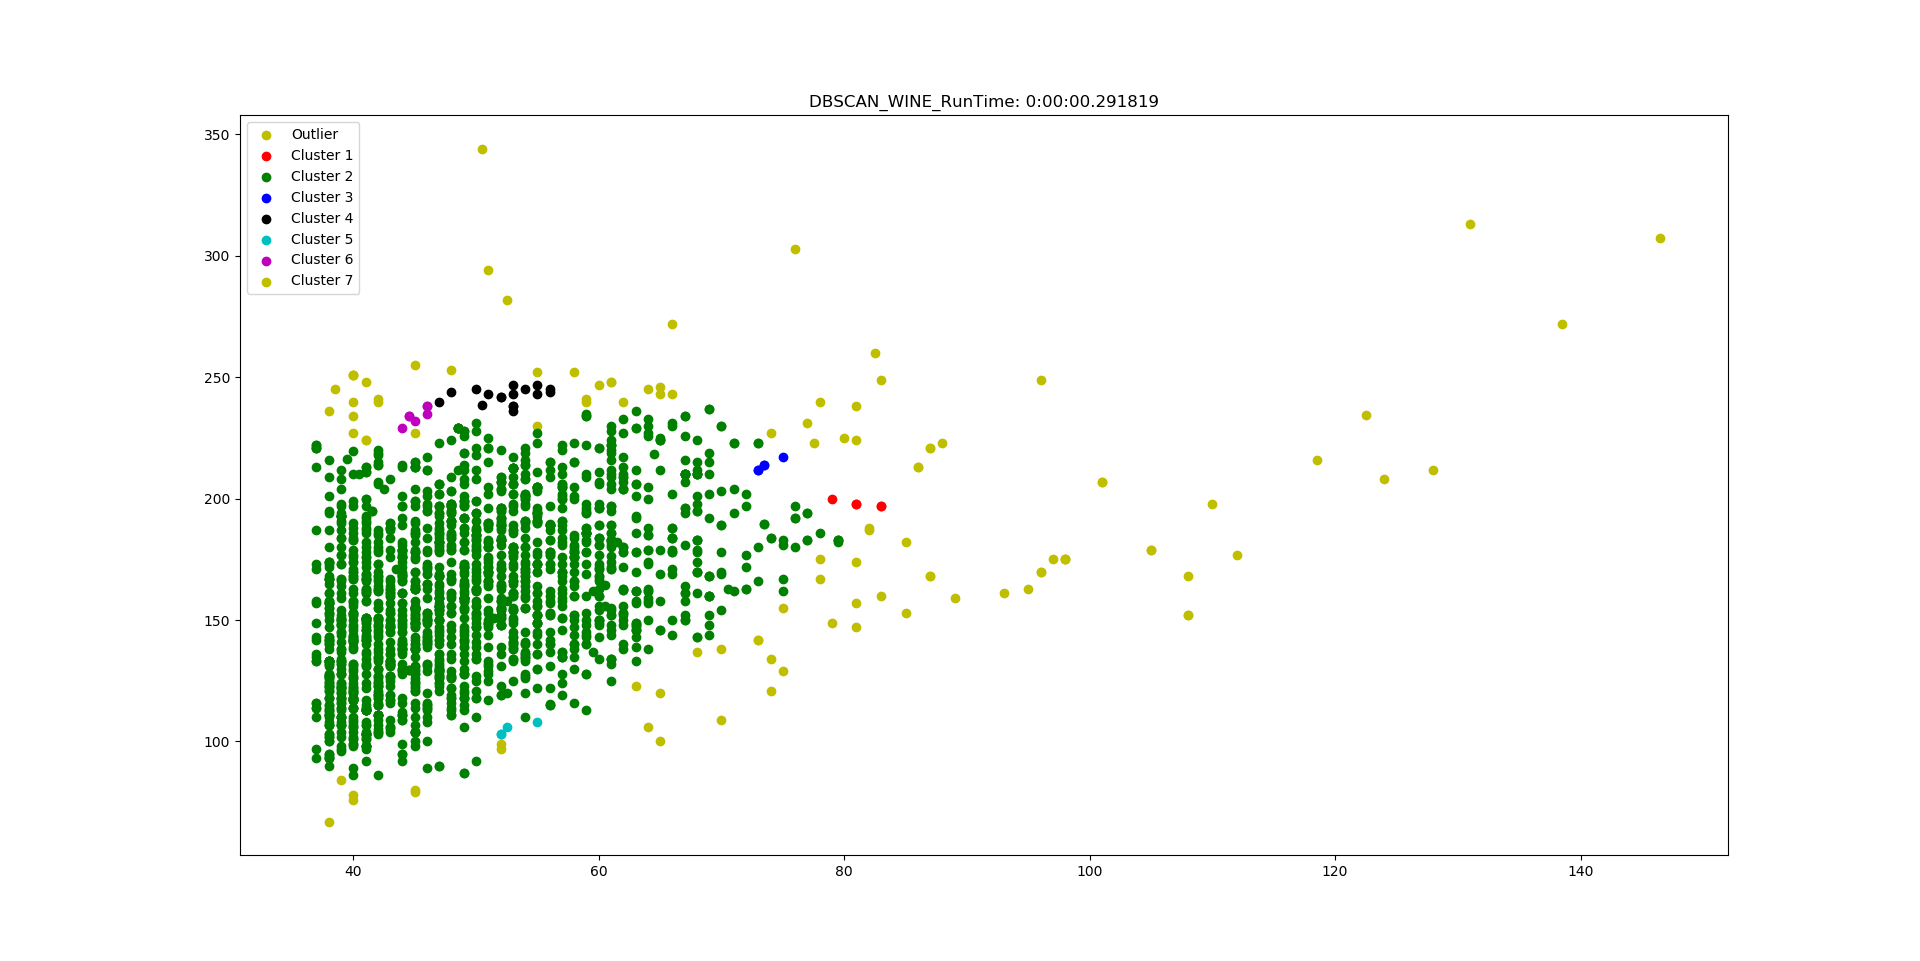
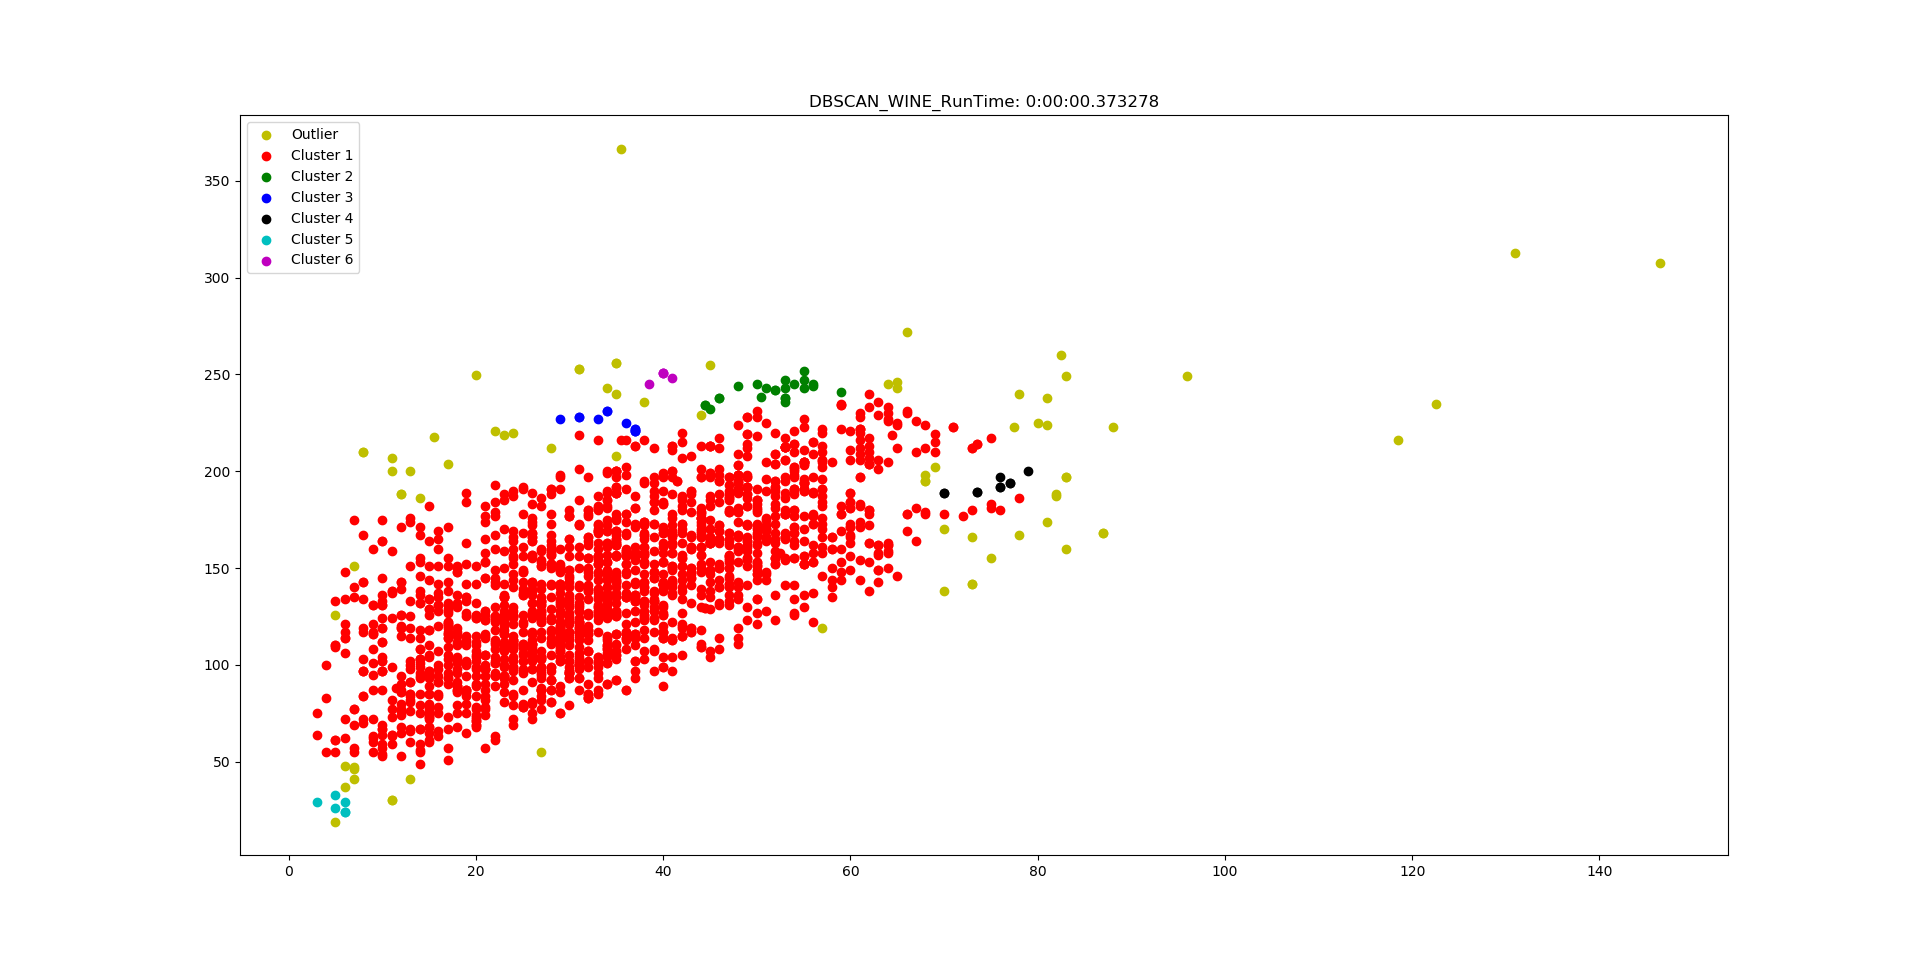
fix some error file

diff --git a/DBSCAN/2D/dbscan_wine_2D.py b/DBSCAN/2D/dbscan_wine_2D.py
@@ -5,10 +5,10 @@ from sklearn.cluster import DBSCAN
 import datetime
 
 starttime=datetime.datetime.now()
-dataset = pd.read_csv('winequality-white.csv')
-x = dataset.iloc[0:2000, [5,6]].values
+dataset = pd.read_csv('winequalityN.csv')
+x = dataset.iloc[0:2000, [6,7]].values
 
-dbscan = DBSCAN(eps=4, min_samples = 5)
+dbscan = DBSCAN(eps=5, min_samples = 5)
 clusters = dbscan.fit_predict(x)
 
 colors = 'rgbkcmy'
@@ -22,11 +22,5 @@ plt.legend()
 endtime=datetime.datetime.now()
 plt.title('DBSCAN_WINE_RunTime: '+str(endtime-starttime))
 plt.show()
-
-
-
-
-
-
 
 
